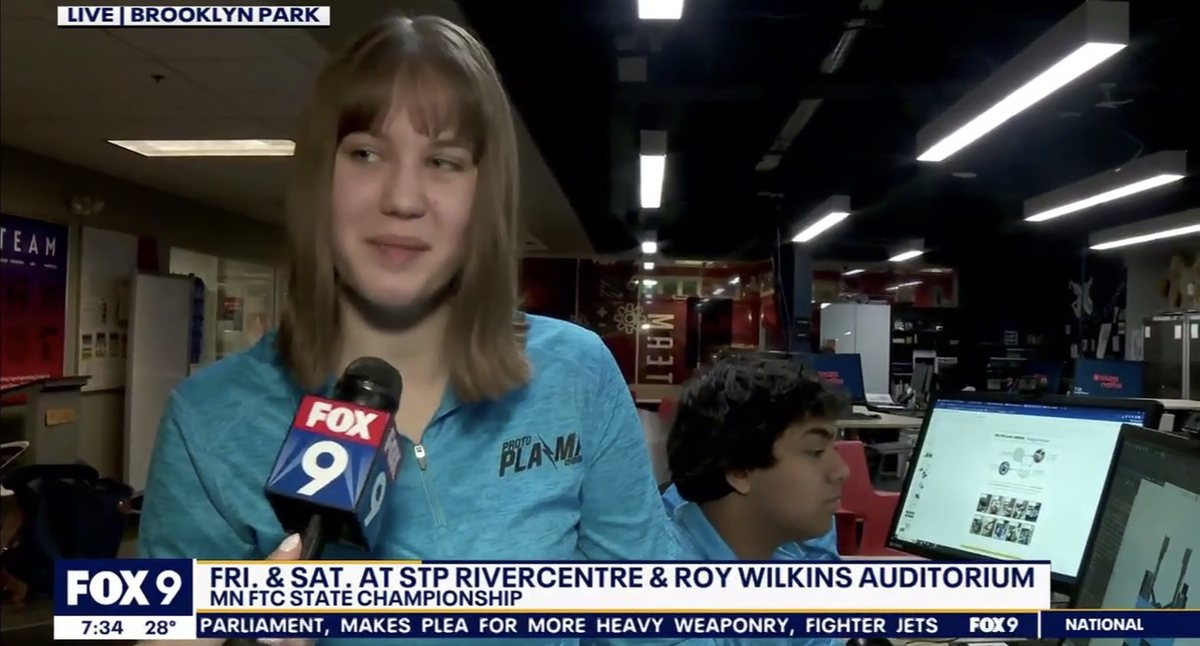
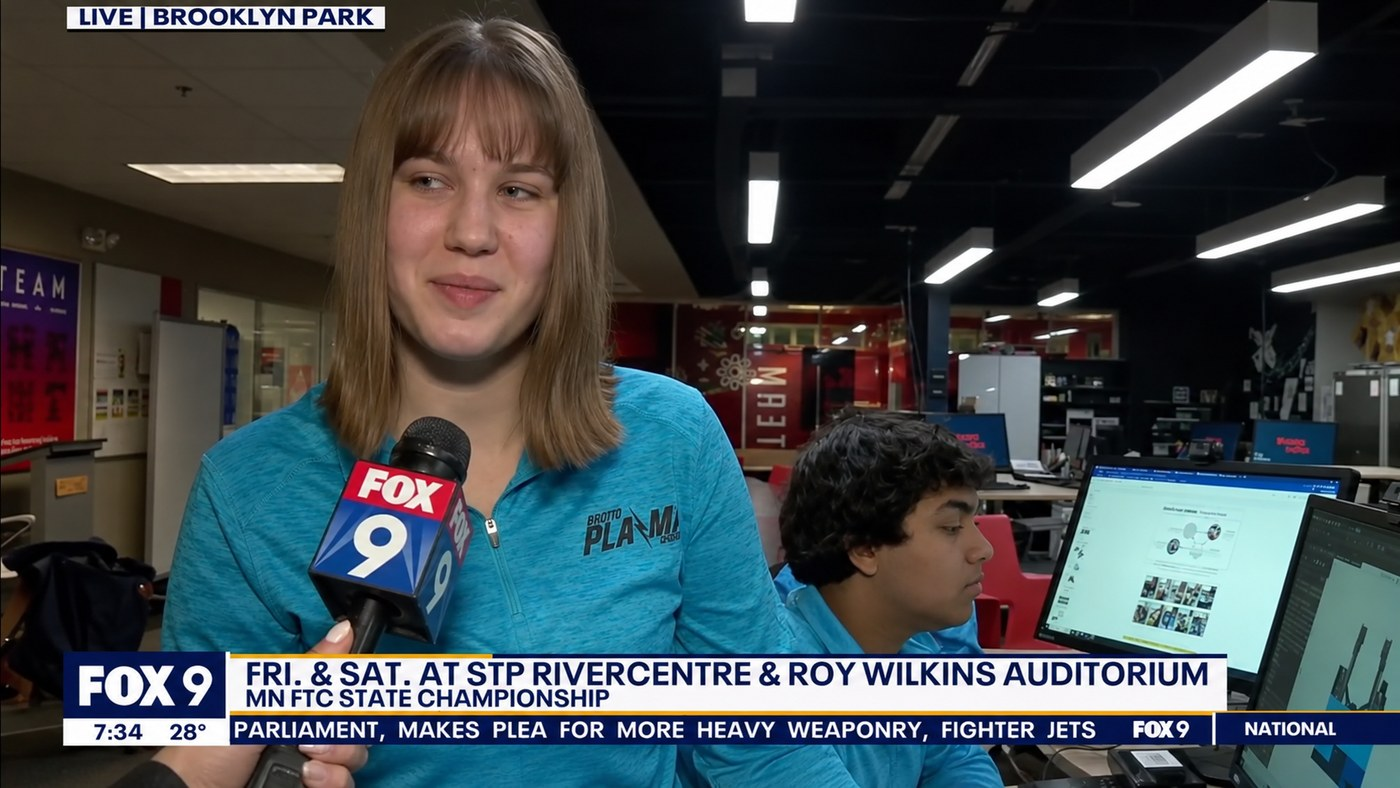
Photos: higher-quality FOX 9 image

diff --git a/index.html b/index.html
@@ -263,7 +263,7 @@
     <div class="bento">
       <div class="bento-col">
         <img src="assets/photos/golden-gate.jpg" width="921" height="1200" loading="lazy" alt="BriAnna at Baker Beach with the Golden Gate Bridge behind her">
-        <img src="assets/photos/fox9-interview.jpg" width="1200" height="646" loading="lazy" alt="BriAnna interviewed live on FOX 9 about the Minnesota FTC State Championship">
+        <img src="assets/photos/fox9-interview.jpg" width="1400" height="788" loading="lazy" alt="BriAnna interviewed live on FOX 9 about the Minnesota FTC State Championship">
         <img src="assets/photos/hawaii-coast.jpg" width="920" height="1200" loading="lazy" alt="BriAnna sitting on a seawall above the ocean in Hawaii">
         <img src="assets/photos/first-talk.jpg" width="1200" height="900" loading="lazy" alt="BriAnna presenting a What is FIRST? slide to a classroom">
         <img src="assets/photos/lego-workshop.jpg" width="1200" height="900" loading="lazy" alt="BriAnna helping a kid build a LEGO robot at a robotics workshop">
